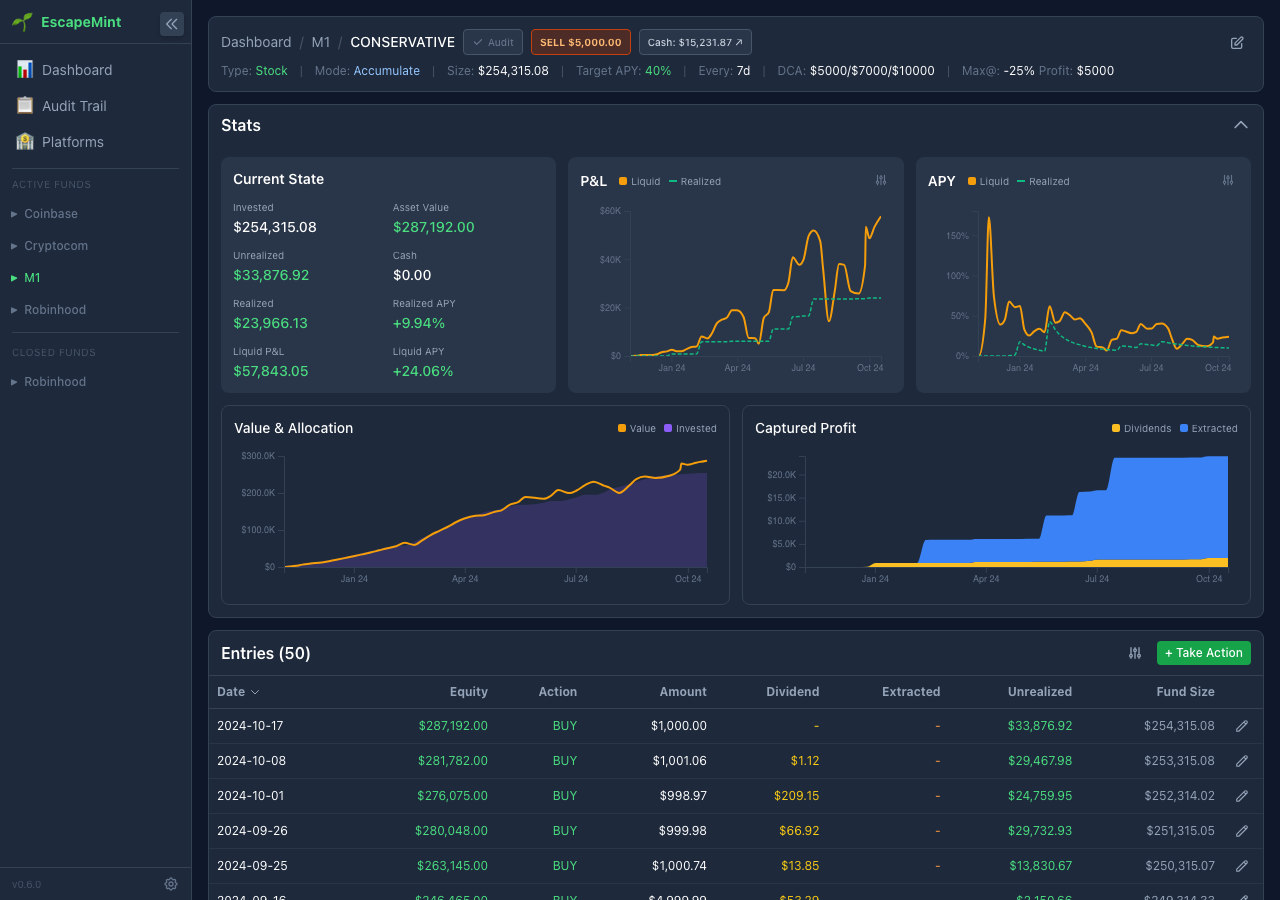
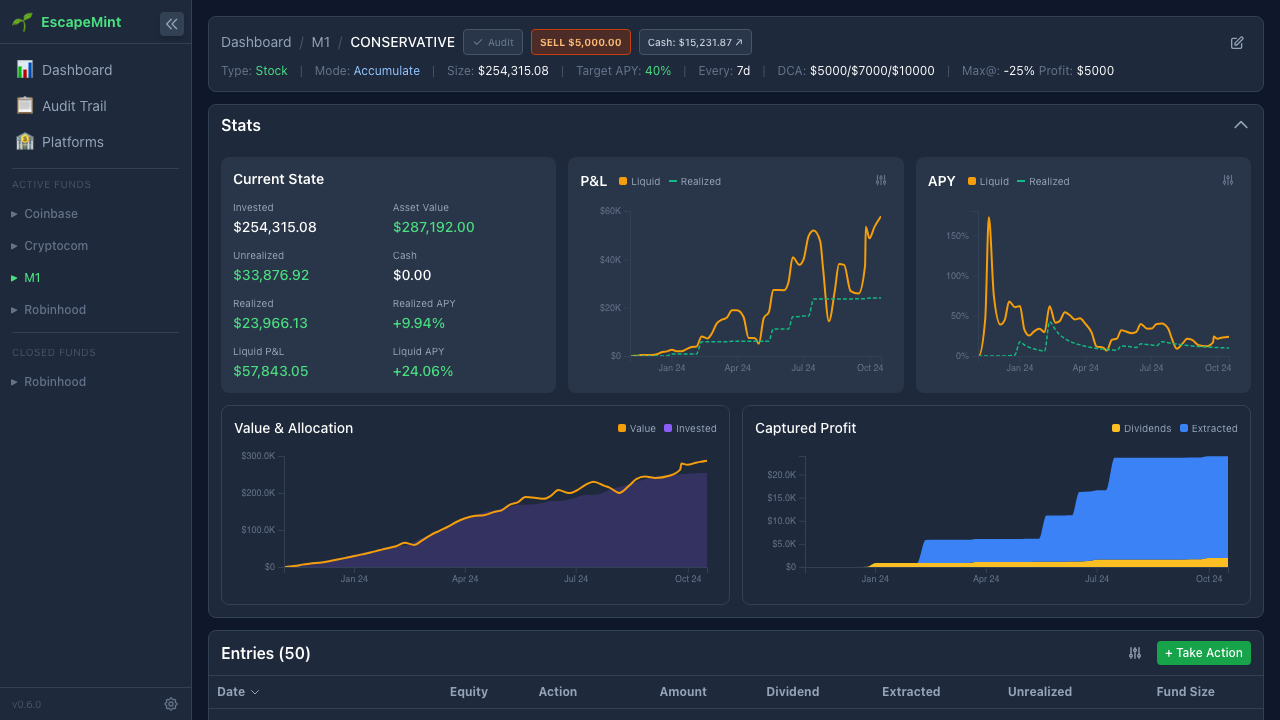
Fix Value & Allocation chart stacking order
The Invested area was filling from top-down instead of bottom-up.
Fixed by changing stacking order so Invested fills from baseline
to startInput, with Cash stacked on top.

Also updated screenshots with taller/wider viewports.

diff --git a/packages/web/src/components/FundCharts.tsx b/packages/web/src/components/FundCharts.tsx
@@ -822,30 +822,30 @@ function ValueAndFundSizeChart({
 
     // Stacked areas for fund allocation
     if (manageCash) {
-      // Cash (bottom) + invested (top)
-      const cashArea = d3.area<TimeSeriesPoint>()
-        .x(d => x(d.date))
-        .y0(height)
-        .y1(d => y(d.cashAvailable))
-        .curve(d3.curveMonotoneX)
-
+      // Invested (bottom) + Cash (top)
       const investedArea = d3.area<TimeSeriesPoint>()
         .x(d => x(d.date))
-        .y0(d => y(d.cashAvailable))
-        .y1(d => y(d.cashAvailable + d.startInput))
+        .y0(height)
+        .y1(d => y(d.startInput))
         .curve(d3.curveMonotoneX)
 
-      // Draw cash area (bottom - green)
-      g.append('path')
-        .datum(data)
-        .attr('fill', '#22c55e33')
-        .attr('d', cashArea)
+      const cashArea = d3.area<TimeSeriesPoint>()
+        .x(d => x(d.date))
+        .y0(d => y(d.startInput))
+        .y1(d => y(d.startInput + d.cashAvailable))
+        .curve(d3.curveMonotoneX)
 
-      // Draw invested area (top - purple)
+      // Draw invested area (bottom - purple)
       g.append('path')
         .datum(data)
         .attr('fill', '#8b5cf633')
         .attr('d', investedArea)
+
+      // Draw cash area (top - green)
+      g.append('path')
+        .datum(data)
+        .attr('fill', '#22c55e33')
+        .attr('d', cashArea)
     } else {
       // No cash management - just show invested area from baseline
       const investedArea = d3.area<TimeSeriesPoint>()
